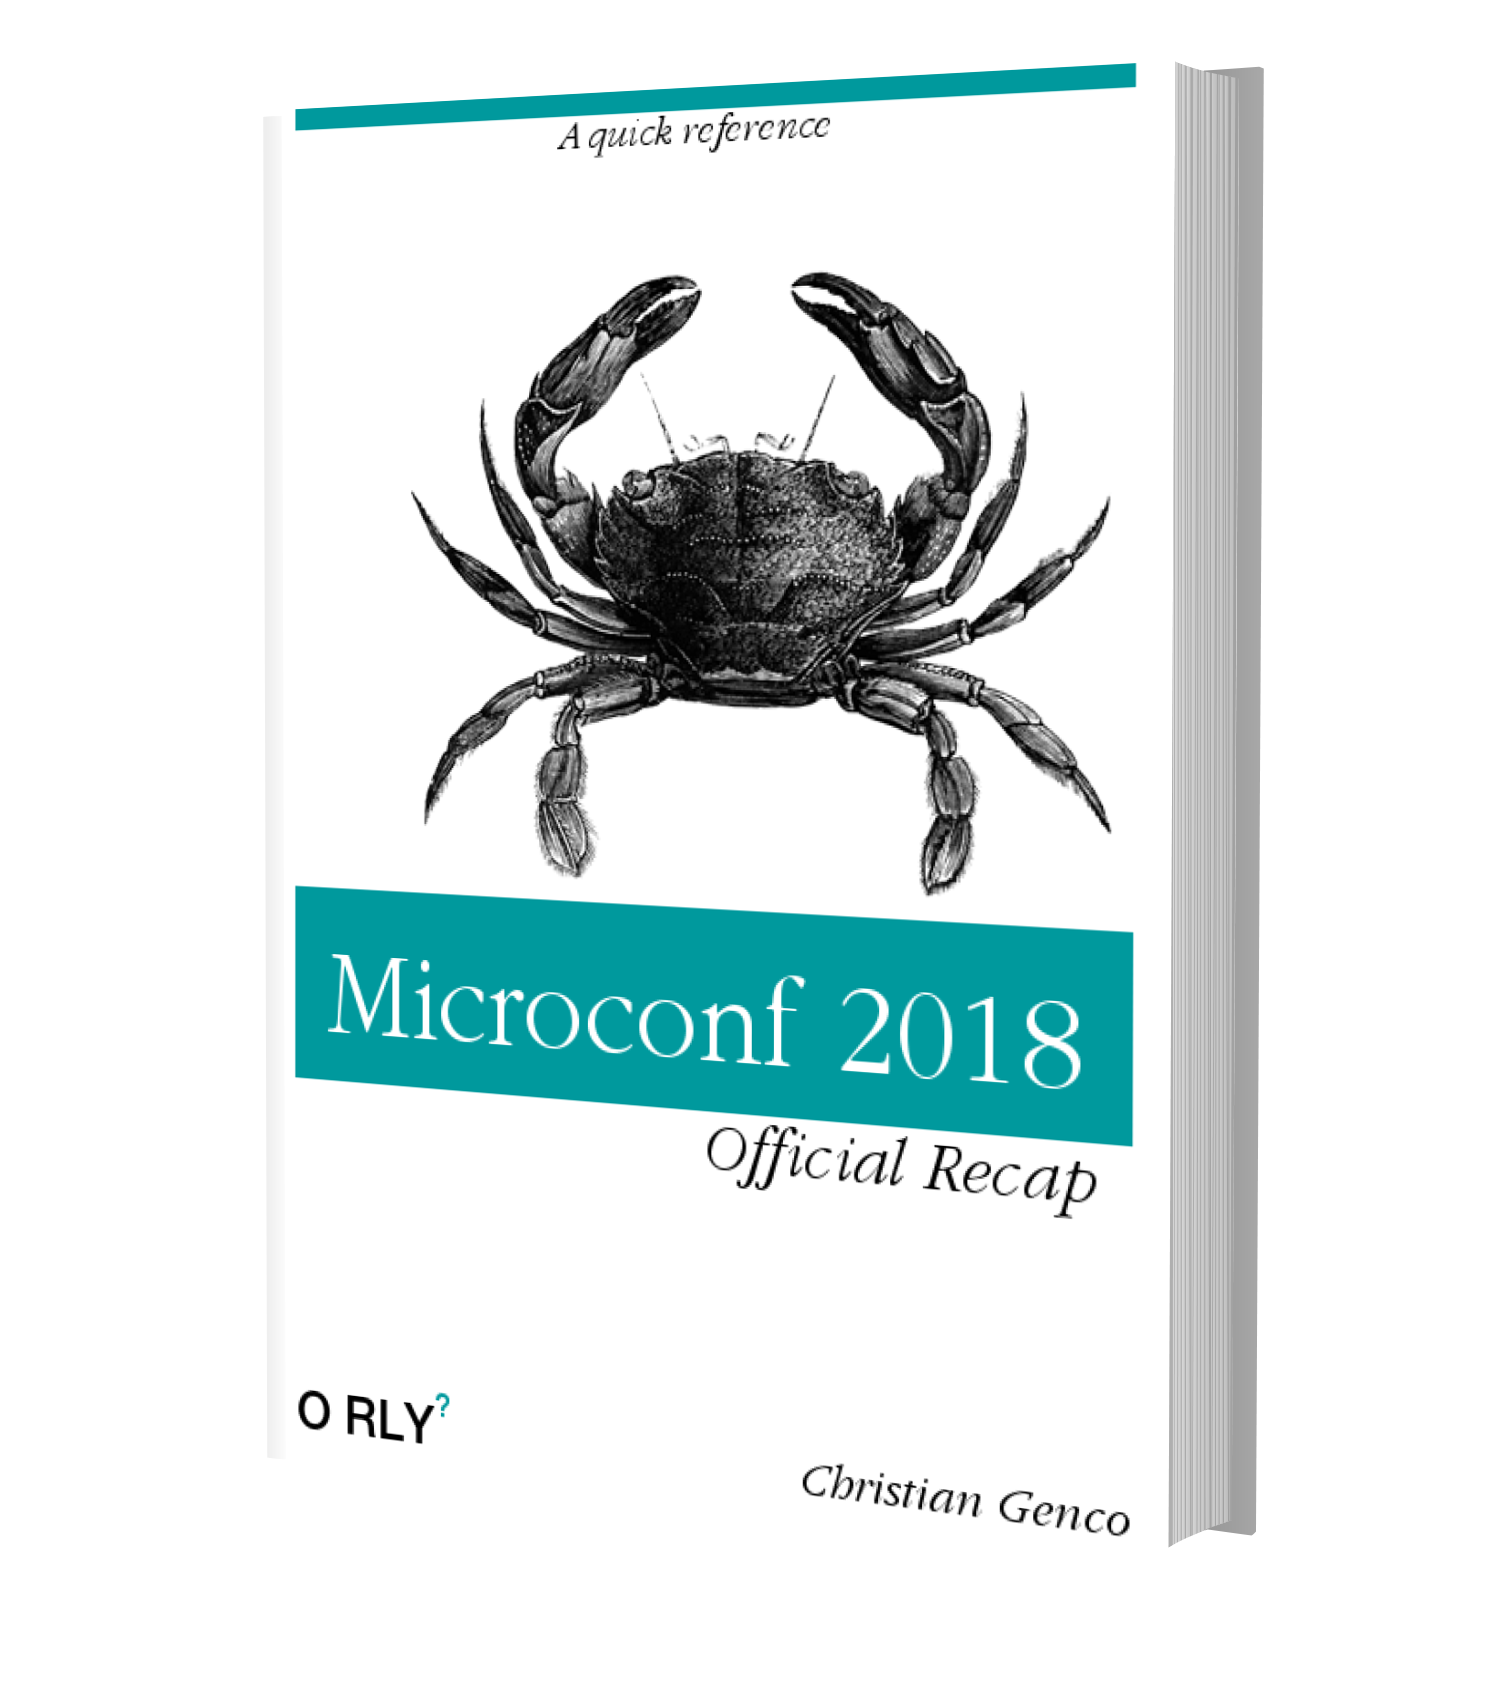
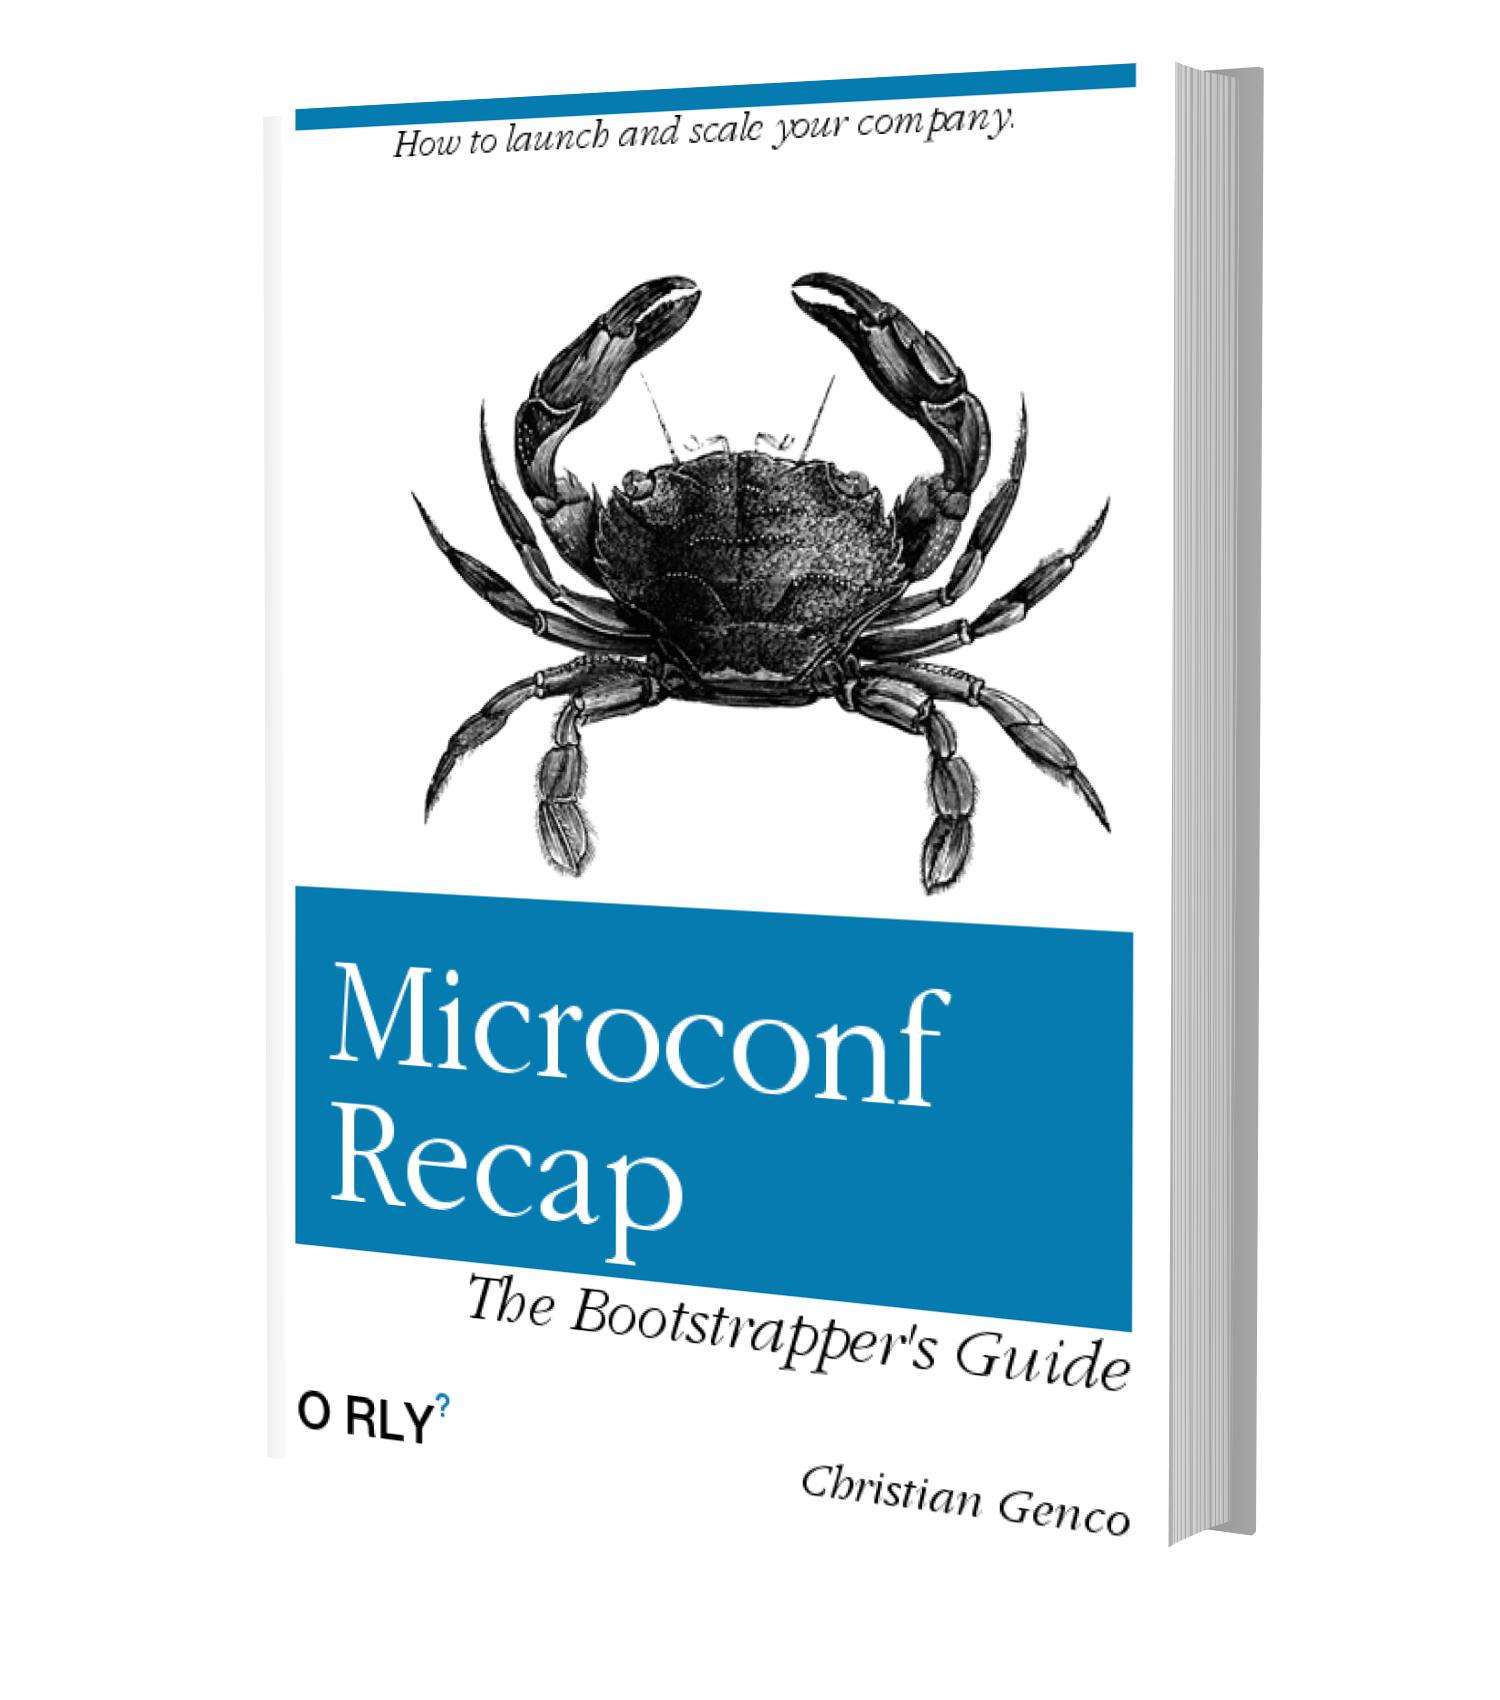
update covers

Changed region(s): [[0.184, 0.4988, 0.7667, 0.8106], [0.184, 0.0312, 0.7667, 0.0935]]

diff --git a/frontend/components/CTA.js b/frontend/components/CTA.js
@@ -20,19 +20,19 @@ class CTA extends Component {
 
   render() {
     const { profile } = this.state;
-    const randomCoverIndex = Math.floor(Math.random() * 16);
+    const randomCoverIndex = Math.floor(Math.random() * 25);
 
     if (profile) {
       return (
         <div className="rounded border border-grey-light mt-6">
           <img
             className="rounded-t"
-            src={`https://microconf.gen.co/static/covers/${randomCoverIndex}.jpg`}
-            alt="Microconf 2018 Recap Book Cover"
+            src={`https://microconf.gen.co/static/covers/${randomCoverIndex}.png`}
+            alt="Microconf Recap Book Cover"
           />
           <div className="p-4">
             <h2 className="text-black font-bold text-3xl mb-2 font-sans">
-              The Microconf 2018 Recap is Yours
+              The Microconf Recap is Yours
             </h2>
 
             <p className="">
@@ -46,7 +46,7 @@ class CTA extends Component {
                   url={`https://microconf.gen.co/?coverIndex=${randomCoverIndex}`}
                   options={{
                     text:
-                      "I just signed up for a free ebook summary of @microconf 2018 at ",
+                      "I just signed up for a free ebook summary of @microconf at ",
                     hashtags: "microconf",
                     via: "cgenco",
                     related: "microconf",
@@ -55,7 +55,7 @@ class CTA extends Component {
               )}
             </p>
             <a
-              href={`https://twitter.com/intent/tweet?hashtags=microconf&amp;original_referer=http%3A%2F%2Flocalhost%3A3000%2Ftest&amp;ref_src=twsrc%5Etfw&amp;related=microconf&amp;text=I%20just%20signed%20up%20for%20a%20free%20ebook%20summary%20of%20%40microconf%202018%20at%20&amp;tw_p=tweetbutton&amp;url=https%3A%2F%2Fmicroconf.gen.co%2F%3FcoverIndex%3D${randomCoverIndex}&amp;via=cgenco`}
+              href={`https://twitter.com/intent/tweet?hashtags=microconf&amp;original_referer=http%3A%2F%2Flocalhost%3A3000%2Ftest&amp;ref_src=twsrc%5Etfw&amp;related=microconf&amp;text=I%20just%20signed%20up%20for%20a%20free%20ebook%20summary%20of%20%40microconf%20at%20&amp;tw_p=tweetbutton&amp;url=https%3A%2F%2Fmicroconf.gen.co%2F%3FcoverIndex%3D${randomCoverIndex}&amp;via=cgenco`}
               className="bg-blue hover:bg-blue-dark w-full font-sans text-white font-bold py-2 px-4 rounded focus:outline-none focus:shadow-outline no-underline block text-center mt-2"
               target="_blank"
             >

diff --git a/frontend/components/Home.js b/frontend/components/Home.js
@@ -28,6 +28,14 @@ const Home = ({ posts = {}, query: { coverIndex } }) => {
     post => post.conference == "growth"
   );
 
+  const starter2019Posts = Object.values(posts).filter(
+    post => post.conference == "starter2019"
+  );
+
+  const growth2019Posts = Object.values(posts).filter(
+    post => post.conference == "growth2019"
+  );
+
   return (
     <div>
       <Head>
@@ -67,7 +75,11 @@ const Home = ({ posts = {}, query: { coverIndex } }) => {
         />
         <meta name="twitter:card" value="summary_large_image" />
       </Head>
-
+      <h2 className="font-sans">Growth 2019</h2>
+      <PostList posts={growth2019Posts} />
+      <h2 className="font-sans">Starter 2019</h2>
+      <PostList posts={starter2019Posts} />
+      <hr style={{ border: "1px solid black" }} />
       <h2 className="font-sans">Starter 2018</h2>
       <PostList posts={starterPosts} />
       <h2 className="mt-6 font-sans">Growth 2018</h2>

diff --git a/frontend/components/Mailtrain.js b/frontend/components/Mailtrain.js
@@ -69,12 +69,11 @@ export class Mailtrain extends Component {
       <div className="rounded border border-grey-light sm:flex flex-row justify-between leading-normal p-4 mt-6">
         <div className="">
           <h3 className="text-black font-bold text-xl mb-2 font-sans">
-            Free "Microconf 2018" eBook
+            Free "Microconf Recap" eBook
           </h3>
           <p className="text-grey-darker text-base">
             I'm sending out a beautiful PDF eBook of notes from every MicroConf
-            2018 Starter and Growth talk – both Speaker and Attendee. Want a
-            copy?
+            Starter and Growth talk – both Speaker and Attendee. Want a copy?
           </p>
           <form className="" onSubmit={this.onSubmit} className="">
             <fieldset disabled={isLoading}>

diff --git a/editor/index.js b/editor/index.js
@@ -55,6 +55,7 @@ const fetchAll = () => {
     });
 };
 
+// warning: this overwrites local changes
 // fetchAll();
 
 const push = filename => {
@@ -81,11 +82,13 @@ const pushAll = () => {
     push(path.basename(filename));
   });
 };
-pushAll();
 
-// console.log("watching...");
-// fs.watch("posts", (event, filename) => {
-//   console.log(`${new Date().toISOString()} updating ${filename}`);
+// warning: this overwrites changes on firebase
+// pushAll();
+
+console.log("watching posts/*...");
+fs.watch("posts", (event, filename) => {
+  console.log(`${new Date().toISOString()} updating ${filename}`);
 
 //   // filename might be null if file was deleted
 //   push(filename);

diff --git a/editor/x/new_speaker.rb b/editor/x/new_speaker.rb
@@ -1,4 +1,7 @@
+#!/usr/bin/env ruby
+
 require 'json'
+require 'erb'
 
 def get_bio(screen_name)
   url = "https://wt-christian-gen-co-0.run.webtask.io/twitterwebtask?screen_name=#{screen_name}"
@@ -24,7 +27,15 @@ def get_bio(screen_name)
   }
 end
 
-puts get_bio(ARGV.first).to_json
+speaker = get_bio(ARGV.first)
+
+filename = speaker["name"].downcase.gsub(" ", "-") + ".md"
+filepath = "./drafts/#{filename}"
+
+renderer = ERB.new(DATA.read)
+File.open(filepath, 'w'){|f| f.puts renderer.result}
+puts filepath
+
 
 # Dir.glob('./drafts/*').each do |path|
 #   draft = File.read(path)
@@ -48,3 +59,13 @@ puts get_bio(ARGV.first).to_json
 #
 #   # exit
 # end
+__END__
+---
+title: Microconf Talk
+speaker: <%= speaker.to_json %>
+date:
+conference: growth2019
+description: Microconf 2019 talk recap
+image:
+isPublic: false
+---

diff --git a/editor/drafts/christian-genco.md b/editor/drafts/christian-genco.md
@@ -1,0 +1,9 @@
+---
+title: Microconf Talk
+speaker: {"name":"Christian Genco","twitter":"cgenco","location":"Dallas, Texas","description":"Founder of https://t.co/JH1arYjS9T \n\nAlso working on https://t.co/OobHSYGuHh and other stuff at https://t.co/Rut3g1cs23","verified":false,"image":"https://pbs.twimg.com/profile_images/967988126810497024/FfWSKiD_.jpg","website":"https://christian.gen.co/"}
+date:
+conference: growth2019
+description: Microconf 2019 talk recap
+image:
+isPublic: false
+---
